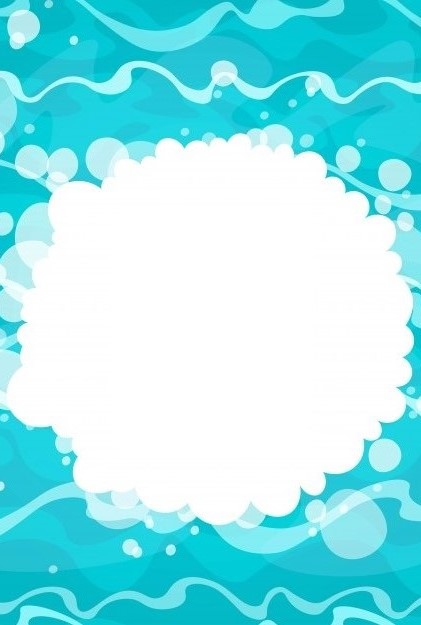
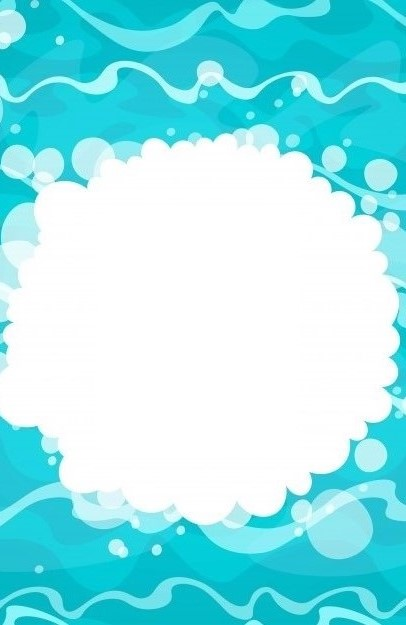
laitoin logon alotusscreeniin, saattaa olla vääräs paikas lisättynä

diff --git a/js/game.js b/js/game.js
@@ -11,6 +11,7 @@ function preload() {
     game.load.spritesheet('infobutton', 'assets/infobutton.png', 220, 90, 2);
     game.load.spritesheet('startscreen','assets/startscreen.jpg',600,400);
     game.load.spritesheet('river','assets/river.jpg',600,400);
+    game.load.spritesheet('logo', 'assets/logo.png', 300, 270);
 }
 // first menu site variables
 var gameMenu = true;
@@ -67,6 +68,7 @@ function create() {
 
     game.physics.startSystem(Phaser.Physics.ARCADE);
     menuImage = game.add.image(0,0,'startscreen');
+    logo = game.add.image(70, 40, 'logo')
     game.canvas.id = "game";
     backgroundImage = game.add.image(0, 0, 'river');
     enemies = game.add.group();
@@ -484,11 +486,11 @@ function startGame() {
     if(button !== undefined) {
         button.kill();
     };
-    button = game.add.button(game.world.centerX - 95, 250, 'playbutton', start, this, 1, 2, 0); 
+    button = game.add.button(game.world.centerX - 100, 350, 'playbutton', start, this, 1, 2, 0); 
     if(button2 !== undefined) {
         button2.kill();
     };
-    button2 = game.add.button(game.world.centerX - 95, 350, 'infobutton', instruction, this, 1, 2, 0);
+    button2 = game.add.button(game.world.centerX - 100, 450, 'infobutton', instruction, this, 1, 2, 0);
 };
 
 // What is shown in the instructions-screen. First makes the play-button invisible, then sets the background and sets the text.
